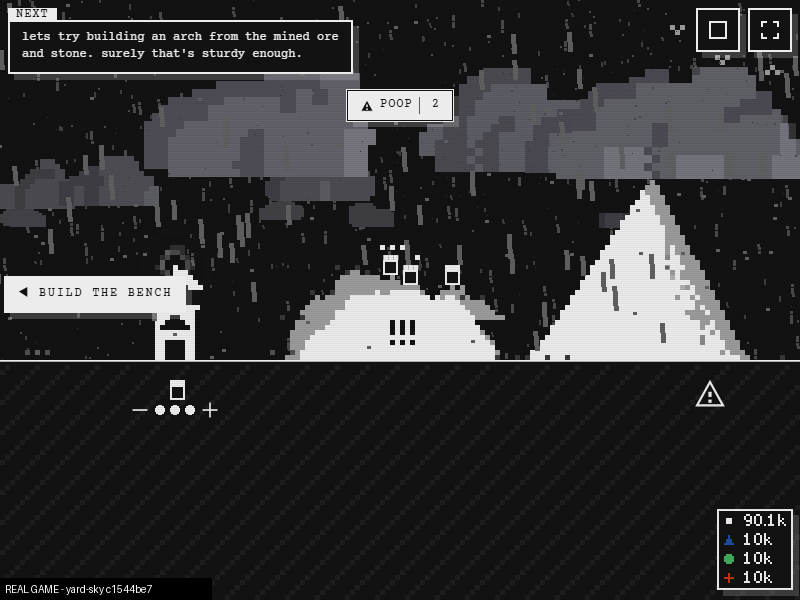
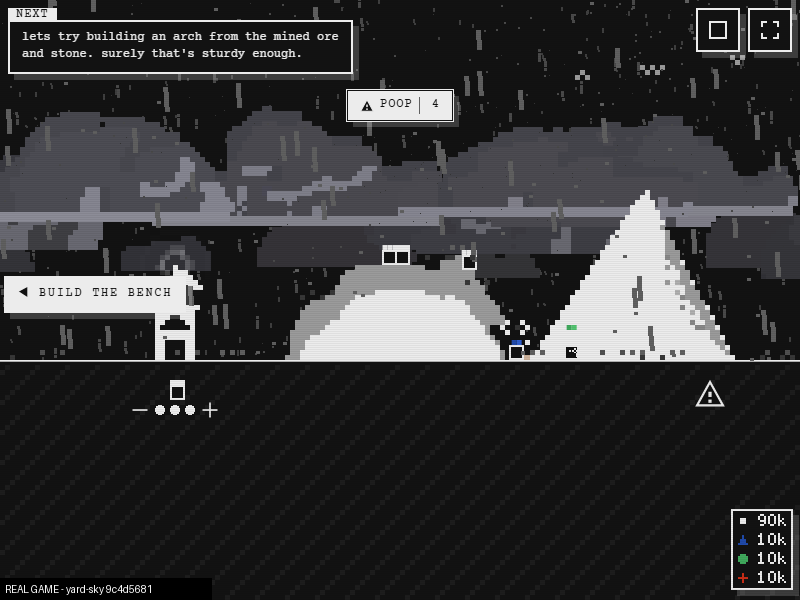
Yard sky: the diagnosis, the review beside act 3, the design note

diff --git a/docs/reviews/2026-10-21-yard-sky/index.html b/docs/reviews/2026-10-21-yard-sky/index.html
@@ -1,5 +1,5 @@
 <!doctype html><html lang="en"><head><meta charset="utf-8"><meta name="viewport" content="width=device-width,initial-scale=1">
-<title>The yard's sky on the cloud renderer</title>
+<title>The yard's sky drawn as act 3's</title>
 <style>
 :root{--bg:#f2f2ef;--card:#fff;--ink:#1a1a1a;--mute:#5c5c58;--line:#d6d6d0;--well:#e8e8e4;--ok:#2f7a3b;--no:#b3261e;--scrim:rgb(20 20 20 / .97)}
 @media (prefers-color-scheme:dark){:root:not([data-theme="light"]){--bg:#141414;--card:#1f1f1f;--ink:#e6e6e6;--mute:#9a9a95;--line:#333;--well:#2a2a2a;--ok:#7fcf8b;--no:#f2b8b5}}
@@ -54,7 +54,7 @@ textarea{font:14px system-ui,sans-serif;width:100%;min-height:2.4em;margin-top:6
  <div class="stage" id="lbs"><img id="lbi" alt=""></div>
  <div class="hint">space flips before and after · ← → step through shots · esc closes</div>
 </div>
-<script id="data" type="application/json">{"title":"The yard's sky on the cloud renderer: bigger clouds","lede":"REAL GAME, before = main b052a1ac, after = yard-sky c1544be7. Bigger, fewer yard clouds on the shared renderer, each wholly inside the sky; the front adds clouds by area, so the storm reads the same.","base":"b052a1ac97fb26b682461de8e02e90861dbc0fdb","head":"c1544be7db56c700dced5a00197495d7dfccc0ff","at":"2026-10-20T20:35:29.243Z","items":[{"id":"clear","title":"A clear sky","what":"the ordinary yard sky","audit":[],"shots":[{"label":"REAL GAME 2000x967 light","before":{"src":"clear/1-before.png","gif":false,"note":""},"after":{"src":"clear/1-after.png","gif":false,"note":""},"pixel":false},{"label":"REAL GAME 2000x967 dark","before":{"src":"clear/2-before.png","gif":false,"note":""},"after":{"src":"clear/2-after.png","gif":false,"note":""},"pixel":false},{"label":"REAL GAME 800x600 light","before":{"src":"clear/3-before.png","gif":false,"note":""},"after":{"src":"clear/3-after.png","gif":false,"note":""},"pixel":false},{"label":"REAL GAME 800x600 dark","before":{"src":"clear/4-before.png","gif":false,"note":""},"after":{"src":"clear/4-after.png","gif":false,"note":""},"pixel":false}]},{"id":"swell","title":"A front at the end of its brew","what":"the clouds swelled by the storm's clock","audit":[],"shots":[{"label":"REAL GAME 2000x967 light","before":{"src":"swell/1-before.png","gif":false,"note":""},"after":{"src":"swell/1-after.png","gif":false,"note":""},"pixel":false},{"label":"REAL GAME 2000x967 dark","before":{"src":"swell/2-before.png","gif":false,"note":""},"after":{"src":"swell/2-after.png","gif":false,"note":""},"pixel":false},{"label":"REAL GAME 800x600 light","before":{"src":"swell/3-before.png","gif":false,"note":""},"after":{"src":"swell/3-after.png","gif":false,"note":""},"pixel":false},{"label":"REAL GAME 800x600 dark","before":{"src":"swell/4-before.png","gif":false,"note":""},"after":{"src":"swell/4-after.png","gif":false,"note":""},"pixel":false}]},{"id":"rain","title":"A full storm","what":"the rain under the swelled sky","audit":[],"shots":[{"label":"REAL GAME 2000x967 light","before":{"src":"rain/1-before.png","gif":false,"note":""},"after":{"src":"rain/1-after.png","gif":false,"note":""},"pixel":false},{"label":"REAL GAME 2000x967 dark","before":{"src":"rain/2-before.png","gif":false,"note":""},"after":{"src":"rain/2-after.png","gif":false,"note":""},"pixel":false},{"label":"REAL GAME 800x600 light","before":{"src":"rain/3-before.png","gif":false,"note":""},"after":{"src":"rain/3-after.png","gif":false,"note":""},"pixel":false},{"label":"REAL GAME 800x600 dark","before":{"src":"rain/4-before.png","gif":false,"note":""},"after":{"src":"rain/4-after.png","gif":false,"note":""},"pixel":false}]},{"id":"pan","title":"A pan in the brew","what":"REAL GAME, every cloud sliding as one piece","audit":[],"shots":[{"label":"REAL GAME pan 1000x484 light","before":{"src":"pan/1-before.gif","gif":true,"note":""},"after":{"src":"pan/1-after.gif","gif":true,"note":""},"pixel":false}]}]}</script>
+<script id="data" type="application/json">{"title":"The yard's sky drawn as act 3's","lede":"REAL GAME, before = main b052a1ac, after = yard-sky 9c4d5681. The yard's clouds now take act 3's cell, size, tones and bands of distance, with the murk and the storm still in them. The diagnosis strip is diagnosis/one-cloud-flips.png.","base":"b052a1ac97fb26b682461de8e02e90861dbc0fdb","head":"9c4d56813c5f57ee23ff595b3685526a0cb1323e","at":"2026-10-20T21:05:11.420Z","items":[{"id":"clear","title":"A clear sky","what":"the ordinary yard sky","audit":[],"shots":[{"label":"REAL GAME 2000x967 light","before":{"src":"clear/1-before.png","gif":false,"note":""},"after":{"src":"clear/1-after.png","gif":false,"note":""},"pixel":false},{"label":"REAL GAME 2000x967 dark","before":{"src":"clear/2-before.png","gif":false,"note":""},"after":{"src":"clear/2-after.png","gif":false,"note":""},"pixel":false},{"label":"REAL GAME 800x600 light","before":{"src":"clear/3-before.png","gif":false,"note":""},"after":{"src":"clear/3-after.png","gif":false,"note":""},"pixel":false},{"label":"REAL GAME 800x600 dark","before":{"src":"clear/4-before.png","gif":false,"note":""},"after":{"src":"clear/4-after.png","gif":false,"note":""},"pixel":false}]},{"id":"swell","title":"A front at the end of its brew","what":"the clouds swelled and greyed by the storm","audit":[],"shots":[{"label":"REAL GAME 2000x967 light","before":{"src":"swell/1-before.png","gif":false,"note":""},"after":{"src":"swell/1-after.png","gif":false,"note":""},"pixel":false},{"label":"REAL GAME 2000x967 dark","before":{"src":"swell/2-before.png","gif":false,"note":""},"after":{"src":"swell/2-after.png","gif":false,"note":""},"pixel":false},{"label":"REAL GAME 800x600 light","before":{"src":"swell/3-before.png","gif":false,"note":""},"after":{"src":"swell/3-after.png","gif":false,"note":""},"pixel":false},{"label":"REAL GAME 800x600 dark","before":{"src":"swell/4-before.png","gif":false,"note":""},"after":{"src":"swell/4-after.png","gif":false,"note":""},"pixel":false}]},{"id":"rain","title":"A full storm","what":"the rain under the swelled sky","audit":[],"shots":[{"label":"REAL GAME 2000x967 light","before":{"src":"rain/1-before.png","gif":false,"note":""},"after":{"src":"rain/1-after.png","gif":false,"note":""},"pixel":false},{"label":"REAL GAME 2000x967 dark","before":{"src":"rain/2-before.png","gif":false,"note":""},"after":{"src":"rain/2-after.png","gif":false,"note":""},"pixel":false},{"label":"REAL GAME 800x600 light","before":{"src":"rain/3-before.png","gif":false,"note":""},"after":{"src":"rain/3-after.png","gif":false,"note":""},"pixel":false},{"label":"REAL GAME 800x600 dark","before":{"src":"rain/4-before.png","gif":false,"note":""},"after":{"src":"rain/4-after.png","gif":false,"note":""},"pixel":false}]},{"id":"act3","title":"Act 3's sky, for comparison","what":"REAL GAME, act 3 on the same renderer","audit":[],"shots":[{"label":"REAL GAME act 3 2000x967 light","before":{"src":"act3/1-before.png","gif":false,"note":""},"after":{"src":"act3/1-after.png","gif":false,"note":""},"pixel":false},{"label":"REAL GAME act 3 2000x967 dark","before":{"src":"act3/2-before.png","gif":false,"note":""},"after":{"src":"act3/2-after.png","gif":false,"note":""},"pixel":false}]},{"id":"pan","title":"A pan in the brew","what":"REAL GAME, every cloud sliding as one piece","audit":[],"shots":[{"label":"REAL GAME pan 1000x484 light","before":{"src":"pan/1-before.gif","gif":true,"note":""},"after":{"src":"pan/1-after.gif","gif":true,"note":""},"pixel":false}]}]}</script>
 <script>
 const D = JSON.parse(document.getElementById('data').textContent);
 const rev = {}; let db = null, filter = 'all';

diff --git a/DESIGN.md b/DESIGN.md
@@ -22900,7 +22900,28 @@ What was built differs from the plan in four places:
   renderer too, but the ride up the road has no caller since the rise
   became the gates' glide (`shot.js`, `rideRoad`). So they could not be shot.
 
-The sections below are the plan as approved.
+- **The yard's clouds are drawn as act 3's** (2026-10-21; the owner: "not
+  sure why they look so different on the surface"). One cloud drawn with
+  the same seed through both paths showed that two inputs made the
+  difference (docs/reviews/2026-10-21-yard-sky/diagnosis):
+  - **Size in cells.** Yard clouds were 8 to 12 cells tall, act 3's about
+    30. Every shading band switches on only past a size in cells: the lit
+    face and shadow per lobe (CLOUDS_LOBE_LIGHT.least), the core
+    (CLOUDS_CORE_MIN) and the bands' own minimum (CLOUDS_BAND_MIN). Under
+    them a cloud is one flat tone.
+  - **Tones.** The yard's ladder ran from its crown to its underside, a step
+    darker than act 3's, with no lit face.
+
+  The cell (1.5 P on the near sheet, against act 3's 1 P), breathing and
+  the shape's build counted for little. So yard clouds now sit on act 3's
+  cell and are sized like its sky (CLOUD_HELD.rows). Each is drawn on act
+  3's ladder of roles, with the murk and the storm tinting it by the old
+  crown and underside shares, which keeps the readout. Each sheet stands on
+  act 3's bands of distance, so the far sheet is plain. The front adds
+  clouds up to a share of the sky's area (CLOUD_STORM_COVER). The far sky's
+  extra clouds come off the sky's own stream, so the run's stream does not
+  move. The sheets' own cells still size the rain and the balloons by depth.
+
 
 ### The plan
 

diff --git a/TODO.md b/TODO.md
@@ -55,11 +55,9 @@ place engine's early steps, 6 and 7 come before more act 3 art.
    bench built it; act 3's sky and ground clouds are on it
    (`render/after/cloudsky.js`), and so are the yard's sky clouds and the
    road's (`weather.js`, `render/road.js`; DESIGN.md, "The yard's sky on
-   the cloud renderer"). Open: at the yard sheets' cell sizes a cloud is 8
-   to 26 cells across, too small for its turrets to show, so it reads
-   blockier than the old mounds. Bigger clouds or a finer cell for the sky
-   is the owner's call (the P-grid rule). The road is never framed in play
-   (`rideRoad` has no caller).
+   the cloud renderer"). Open: the road is never framed in play (`rideRoad`
+   has no caller), so its clouds are unseen; at 800x600 the yard's sky band
+   is shallow and the far clouds hang behind the works.
 5. **Fades as the only way in or out.** One shared appear/leave every new
    thing uses (fade.js), so a pop like act 3's sign plant cannot happen by
    accident.
